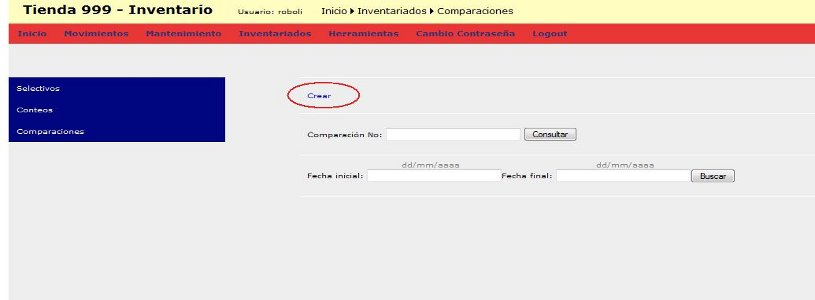
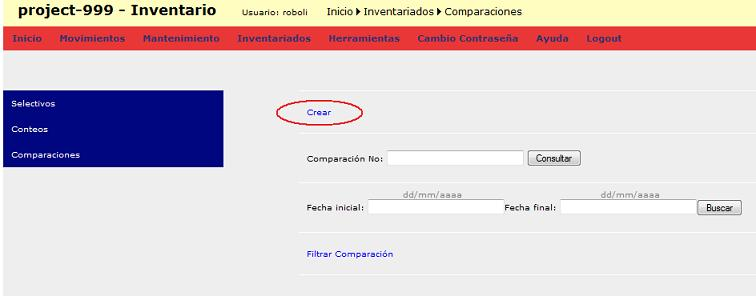
Filtered comparisons functionality added to the inventory manual.

diff --git a/999_help/trunk/WebContent/inventory.html b/999_help/trunk/WebContent/inventory.html
@@ -9,11 +9,12 @@
 	<h1><a name="title">Inventariados</a></h1>
 	<h4><a name="introduction">Introducci&oacute;n</a></h4>
 	<p>La secci&oacute;n de “Inventariados” en el modulo de inventario cuenta con herramientas para poder llevar a cabo inventarios f&iacute;sicos (inventariados) y luego compararlos con el inventario del sistema con el prop&oacute;sito de corregir diferencias.
-	Para realizar un inventario se deben llevar a cabo 3 pasos:</p>
+	Para realizar un inventario se deben llevar a cabo 4 pasos de los cuales 2 son opcionales:</p>
 	<ol>
-		<li>Imprimir un selectivo para llevar un conteo f&iacute;sico de los productos de la tienda.</li>
-		<li>Ingresar el conteo al sistema.</li>
-		<li>Crear una comparaci&oacute;n entre el conteo o inventario f&iacute;sico contra el inventario del sistema.</li>
+		<li><a href="#counting_templates">Imprimir un selectivo para llevar un conteo f&iacute;sico de los productos de la tienda (opcional).</a></li>
+		<li><a href="#counts">Ingresar el conteo al sistema.</a></li>
+		<li><a href="#comparisons">Crear una comparaci&oacute;n entre el conteo o inventario f&iacute;sico contra el inventario del sistema.</a></li>
+		<li><a href="#comparison_filters">Filtrar comparaci&oacute;n para analizar mejor la informaci&oacute;n (opcional).</a></li>
 	</ol>
 	<p>Para estos 3 pasos hay 3 herramientas en el sistema como lo muestra la figura 1.</p>
 	<div class="img_example">
@@ -58,6 +59,22 @@
 	<div class="img_example">
 		<img alt="comparacion" src="images/comparison.jpg" /><br />
 		<span>Figura 8.</span>
+	</div>
+	<h4><a name="comparison_filters">Filtrar Comparaciones</a></h4>
+	<p>Por &uacute;ltimo se puede filtrar una comparaci&oacute;n en caso esta sea demasiado grande o se quiere analizar la informaci&oacute;n en una forma m&aacute;s compacta. Para esta se ingresa a subsecci&oacute;n “Comparaciones” en la secci&oacute;n de “Inventariados” y se presiona el link “Filtrar Comparaci&oacute;n”. Ver figura 9.</p>
+	<div class="img_example">
+		<img alt="menu comparacion filtro" src="images/comparison_filter_menu.jpg" /><br />
+		<span>Figura 9.</span>
+	</div>
+	<p>Luego el formulario para filtrar una comparaci&oacute;n aparecer&aacute;. En el formulario se ingresa el n&uacute;mero de la comparaci&oacute;n a filtrar. Qu&eacute; tipo de filtro aplicar y si se desea que despliegue los valores monetarios para cada detalle y el total. Para ver los valores monetarios se necesito ingresar con un rol con suficientes privilegios (ver <a href="reference.html#privileges">privilegios en gu&iacute;a de referencia</a>). Al final se presiona el botón “Aceptar”. Ver figura 10.</p>
+	<div class="img_example">
+		<img alt="formulario comparaciones filtro" src="images/comparison_filter_form.jpg" /><br />
+		<span>Figura 10.</span>
+	</div>
+	<p>Luego aparecer&aacute; la comparaci&oacute;n con el filtro aplicado. Ver figura 11.</p>
+	<div class="img_example">
+		<img alt="comparacion filtro" src="images/comparison_filter.jpg" /><br />
+		<span>Figura 11.</span>
 	</div>
 	<hr class="footer" />
 </body>

diff --git a/999_help/trunk/WebContent/menu.html b/999_help/trunk/WebContent/menu.html
@@ -539,6 +539,7 @@
 						<li><a href="inventory.html#counting_templates" target="content_frame">Selectivos</a></li>
 						<li><a href="inventory.html#counts" target="content_frame">Conteos</a></li>
 						<li><a href="inventory.html#comparisons" target="content_frame">Comparaciones</a></li>
+						<li><a href="inventory.html#comparison_filters" target="content_frame">Filtrar Comparaciones</a></li>
 					</ul>
 				</li>
 				<li><span><b><a href="count_toolbar.html#title" target="content_frame">Barra de Conteo</a></b></span>
